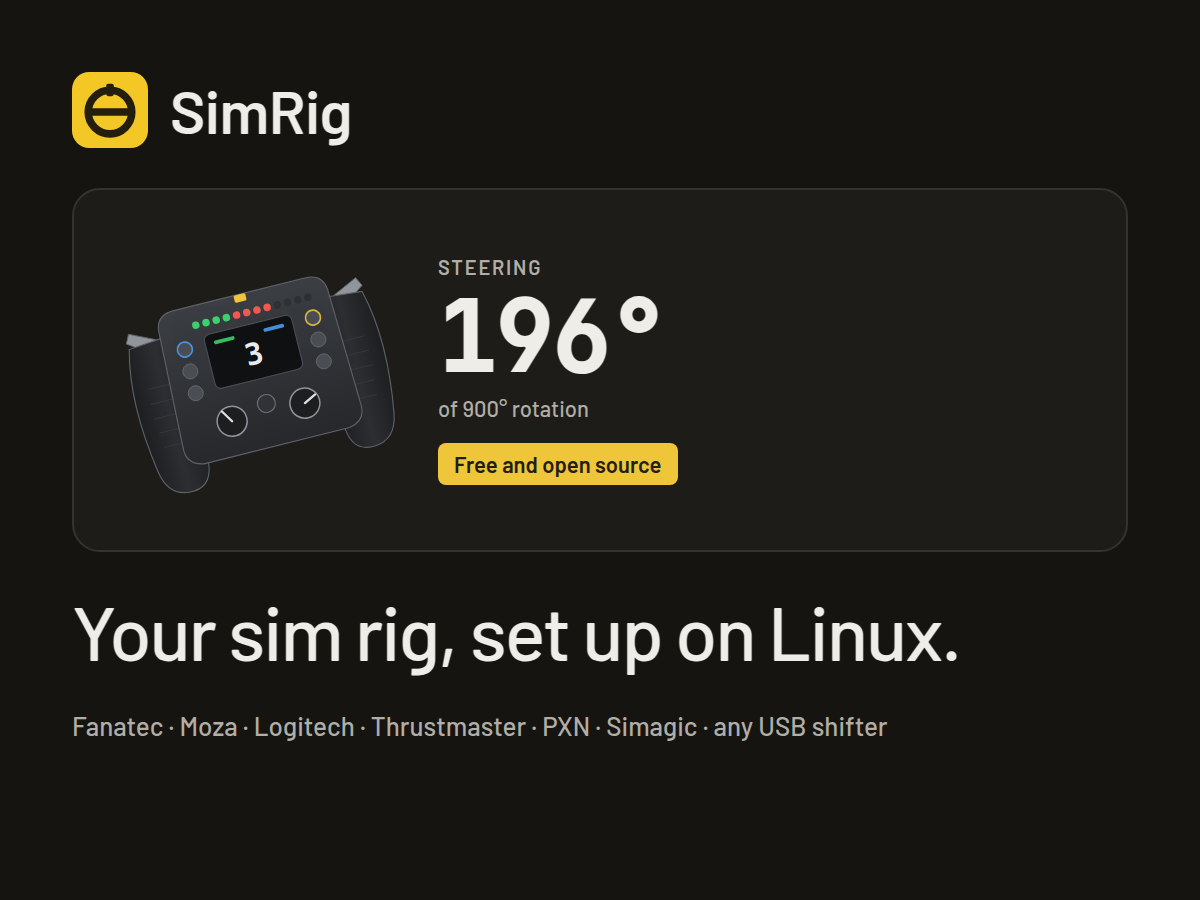
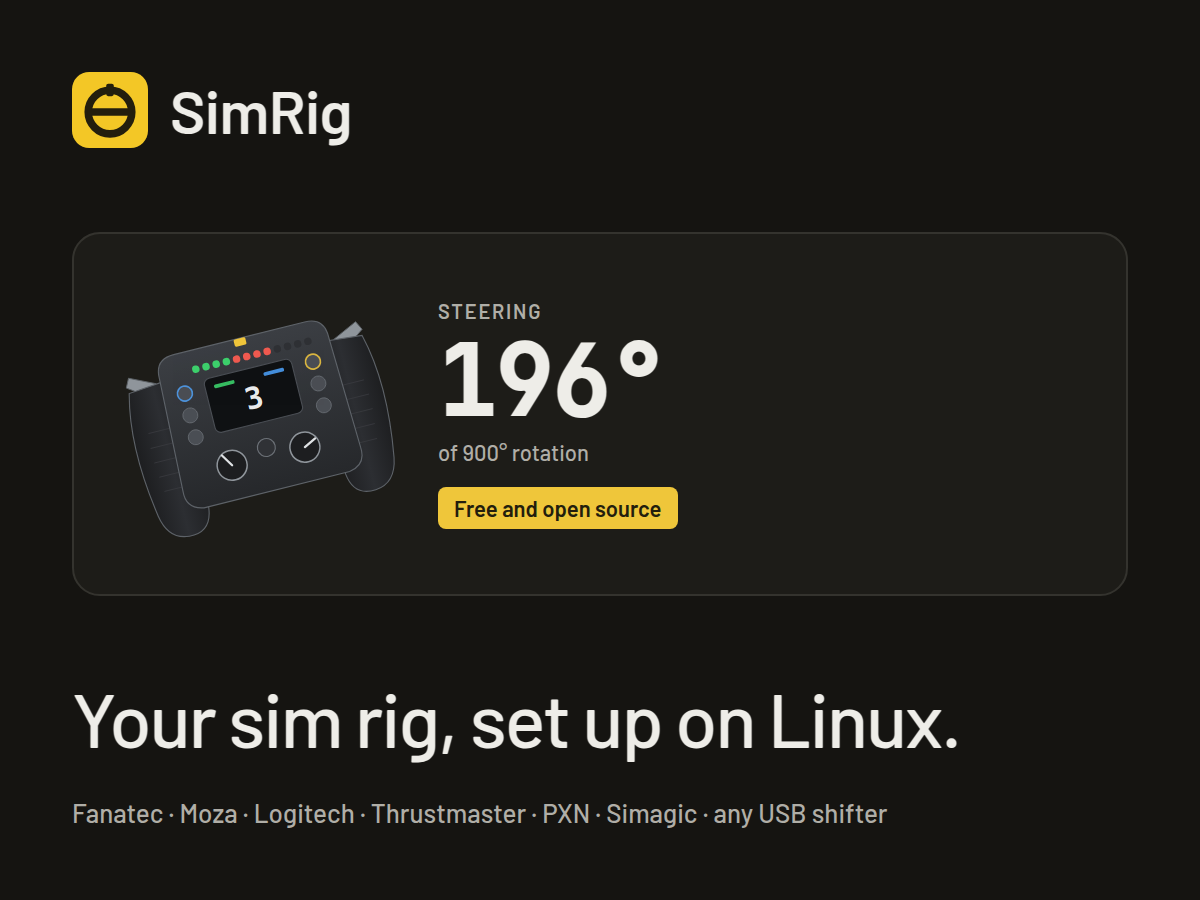
Repository social preview, from the site's preview card
docs/images/social-preview.png (1280x640) is drawn by scripts/site.sh social
from the same card as the site's previews, with the site's address; GitHub
takes it by hand (Settings, Social preview). The card now sets each format's
exact size, so the headless window's frame no longer cuts the page short and
the site's three previews lose their empty band at the bottom.

diff --git a/site/_social/card.html b/site/_social/card.html
@@ -1,6 +1,7 @@
 <!doctype html>
 <!-- The preview image of the site (search results, link previews), drawn by
-     scripts/site.sh social in three formats: #wide (1200x630), #four (1200x900), #square (1200x1200).
+     scripts/site.sh social in three formats: #wide (1200x630), #four (1200x900), #square (1200x1200),
+     and #github (1280x640), the repository's social preview, with the site's address.
      Colours, fonts and drawings are the app's (DESIGN.md). Not part of the published site. -->
 <html>
 <head>
@@ -41,6 +42,19 @@
   .wide .chip { margin-top: 16px; }
   .wide .readout { text-align: center; }
 
+  /* 1280x640, the repository's social preview: the wide layout and the site's address. */
+  .github { grid-template-columns: 1fr 470px; grid-template-rows: auto 1fr auto auto; column-gap: 64px; row-gap: 14px; }
+  .github .brand { grid-column: 1; }
+  .github h1 { grid-column: 1; grid-row: 2; align-self: center; font-size: 74px; }
+  .github .brands { grid-column: 1; grid-row: 3; }
+  .github .url { display: block; grid-column: 1; grid-row: 4; color: #efc63a; font-size: 26px; font-weight: 600; }
+  .github .card { grid-column: 2; grid-row: 1 / -1; align-self: center; grid-template-columns: 1fr; justify-items: center; gap: 0; padding: 22px 26px 28px; }
+  .github .card img { width: 200px; height: 200px; }
+  .github .value { font-size: 80px; }
+  .github .chip { margin-top: 16px; }
+  .github .readout { text-align: center; }
+  .url { display: none; }
+
   /* 1200x900 and 1200x1200: stacked. */
   .four, .square { grid-template-rows: auto 1fr auto auto; row-gap: 40px; }
   .four .card, .square .card { align-self: center; }
@@ -62,6 +76,17 @@
   </div>
   <h1>Your sim rig, set up on Linux.</h1>
   <p class="brands">Fanatec · Moza · Logitech · Thrustmaster · PXN · Simagic · any USB shifter</p>
-  <script>document.body.className = (location.hash || "#wide").slice(1);</script>
+  <p class="url">adiakys.github.io/SimRig</p>
+  <script>
+    // Each format at its exact size: a headless window's own frame would cut the page short.
+    const sizes = { wide: [1200, 630], four: [1200, 900], square: [1200, 1200], github: [1280, 640] };
+    const format = (location.hash || "#wide").slice(1);
+    const [w, h] = sizes[format];
+    document.body.className = format;
+    for (const el of [document.documentElement, document.body]) {
+      el.style.width = `${w}px`;
+      el.style.height = `${h}px`;
+    }
+  </script>
 </body>
 </html>

diff --git a/docs/development.md b/docs/development.md
@@ -158,7 +158,8 @@ The fonts, the mark and the device drawings are copied from the repository at bu
 `simrig --screenshot` on the simulated rig, and `site/assets/video/simrig.mp4` from
 `docs/images/simrig.gif`: run `shots` again when the screens change. The preview image shown by
 search engines and in shared links is drawn from `site/_social/card.html` in three formats (1:1,
-4:3, 16:9), all named in the home's structured data.
+4:3, 16:9), all named in the home's structured data, and as the repository's social preview
+(`docs/images/social-preview.png`, 1280x640, uploaded by hand in GitHub's Settings, Social preview).
 
 What the site says about devices follows the README's table: when support changes, update the
 brand's page (`site/_brands/`), the home's list (`site/_data/models.yml`) and, for a new brand, its
